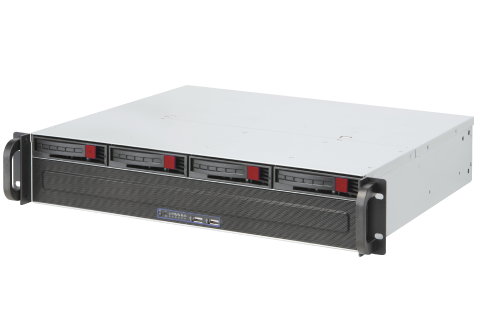
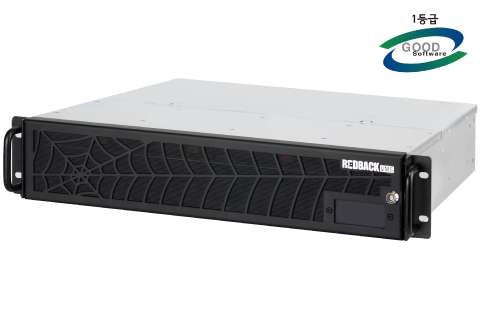
REDBACK VMS UPDATE - 20210415

Changed region(s): [[0.0, 0.25, 1.0, 0.8125], [0.7812, 0.0312, 0.9688, 0.25]]

diff --git a/content/ko/products/redbackvms/index.md b/content/ko/products/redbackvms/index.md
@@ -65,6 +65,21 @@ image:
 
 
 
+## 인증
+<div class="container">
+<div class="row align-items-top">
+<div class="col-sm-3">
+{{< figure src="GS1.png" >}} 
+</div>
+<div class="col-sm-8">
+- 소프트웨어품질인증 1등급 <br>
+- REDBACK VMS v2.9
+</div>
+</div>
+</div>
+
+
+
 ## 개별 사양
 
 <div style="overflow-x: auto">
@@ -294,7 +309,9 @@ image:
 
 종류 | 파일
 ---- | ----
-카탈로그 | [REDBACKVMS_카탈로그_20201022.pdf](https://www.emstone.com/data/sales/ko/REDBACKVMS_카탈로그_20201022.pdf)
+카탈로그 | [REDBACKVMS_카탈로그_20210415.pdf](https://www.emstone.com/data/sales/ko/REDBACKVMS_카탈로그_20210415.pdf)
 외관도 | [REDBACKVMS_외관도_20201022.dwg](https://www.emstone.com/data/sales/ko/REDBACKVMS_외관도_20201022.dwg)<br>[REDBACKVMS_외관도_20201022.png](https://www.emstone.com/data/sales/ko/REDBACKVMS_외관도_20201022.png)
 사양서 | [REDBACKVMS_사양서_20201022.xlsx](https://www.emstone.com/data/sales/ko/REDBACKVMS_사양서_20201022.xlsx)
-인증서 | [REDBACKVMS_방송통신기자재등의적합등록필증_20201022.pdf](https://www.emstone.com/data/sales/ko/REDBACKVMS_방송통신기자재등의적합등록필증_20201022.pdf)<br>[REDBACKVMS_방송통신기자재등(전자파적합성)시험성적서_20201022.pdf](https://www.emstone.com/data/sales/ko/REDBACKVMS_방송통신기자재등(전자파적합성)시험성적서_20201022.pdf)
+시방서 | [REDBACKVMS_EM-VMS256+_시방서_20210225.hwp](https://www.emstone.com/data/sales/ko/REDBACKVMS_EM-VMS256+_시방서_20210225.hwp)<br>[REDBACKVMS_EM-VMS512+_시방서_20210225.hwp](https://www.emstone.com/data/sales/ko/REDBACKVMS_EM-VMS512+_시방서_20210225.hwp)<br>[REDBACKVMS_EM-VMS1024_시방서_20210225.hwp](https://www.emstone.com/data/sales/ko/REDBACKVMS_EM-VMS1024_시방서_20210225.hwp)<br>
+출하검사 결과 성적서 | [REDBACKVMS_EM-VMS256+_출하검사결과성적서_20201025.xls](https://www.emstone.com/data/sales/ko/REDBACKVMS_EM-VMS256+_출하검사결과성적서_20201025.xls)<br>[REDBACKVMS_EM-VMS512+_출하검사결과성적서_20201025.xls](https://www.emstone.com/data/sales/ko/REDBACKVMS_EM-VMS512+_출하검사결과성적서_20201025.xls)<br>[REDBACKVMS_EM-VMS1024_출하검사결과성적서_20201025.xls](https://www.emstone.com/data/sales/ko/REDBACKVMS_EM-VMS1024_출하검사결과성적서_20201025.xls)<br>
+인증서 | [REDBACKVMSv2.9_GS인증(1등급)_20210330.pdf](https://www.emstone.com/data/sales/ko/REDBACKVMSv2.9_GS인증(1등급)_20210330.pdf)<br>[REDBACKVMS_방송통신기자재등의적합등록필증_20201022.pdf](https://www.emstone.com/data/sales/ko/REDBACKVMS_방송통신기자재등의적합등록필증_20201022.pdf)<br>[REDBACKVMS_방송통신기자재등(전자파적합성)시험성적서_20201022.pdf](https://www.emstone.com/data/sales/ko/REDBACKVMS_방송통신기자재등(전자파적합성)시험성적서_20201022.pdf)
